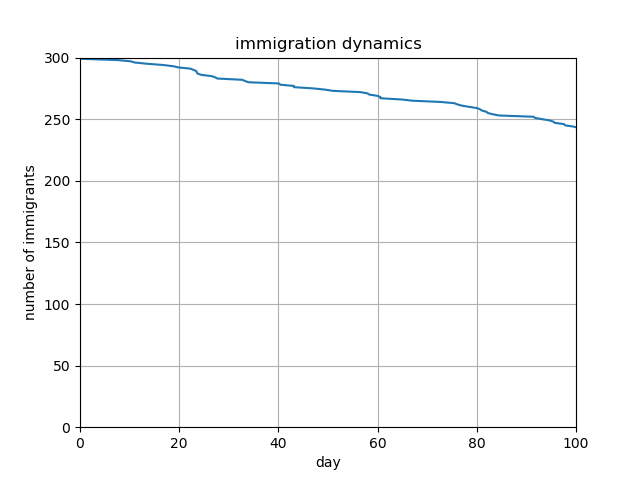
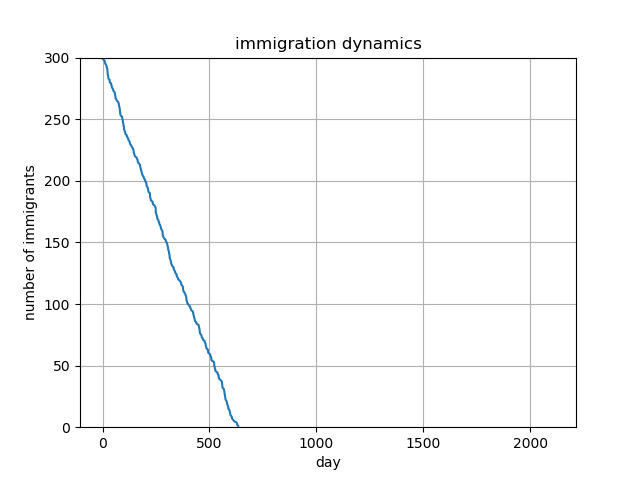
Save

diff --git a/src/model/continuous_time_model.py b/src/model/continuous_time_model.py
@@ -16,12 +16,9 @@ class ContinuousTimeModel(Model):
     BLEACH_GENERATOR_SEED = 800993
 
     PROBABILITY_TO_SAMPLE_INFECTED = 0.1
-    SCREENING_RATE = 1.0 / 36500
+    SCREENING_RATE = 14.97 / 365 / 100
     SHARING_RATE = 1.21
     BLEACH_RATE = 0.14
-    SCREENING_SCALE = 1.0 / SCREENING_RATE
-    SHARING_RATE = 1.0 / SHARING_RATE
-    BLEACH_SCALE = 1.0 / BLEACH_RATE
     NUMBER_OF_DELTAS = 1000000
 
     def __init__(self, number_of_days: int, population_size: int, number_of_syringes: int):
@@ -29,12 +26,8 @@ class ContinuousTimeModel(Model):
         self.__population_size = population_size
         self.__number_of_infected_users, self.__number_of_clean_users = self._divide_population(population_size)
         self.__number_of_infected_syringes, self.__number_of_clean_syringes = 0, number_of_syringes
-        screening_times = ContinuousTimeModel._generate_times(ContinuousTimeModel.SCREENING_GENERATOR_SEED, ContinuousTimeModel.SCREENING_SCALE, ContinuousTimeModel.NUMBER_OF_DELTAS, 0)
-        sharing_times = ContinuousTimeModel._generate_times(ContinuousTimeModel.SHARING_GENERATOR_SEED, ContinuousTimeModel.SHARING_RATE, ContinuousTimeModel.NUMBER_OF_DELTAS, 1)
-        bleach_times = ContinuousTimeModel._generate_times(ContinuousTimeModel.BLEACH_GENERATOR_SEED, ContinuousTimeModel.BLEACH_SCALE, ContinuousTimeModel.NUMBER_OF_DELTAS, 2)
-        times_list = [screening_times, sharing_times, bleach_times]
-        self.__timeline = ContinuousTimeModel._times_to_timeline(times_list)
-
+        self.__screening_generator = Random(ContinuousTimeModel.SCREENING_GENERATOR_SEED)
+        self.__sharing_generator = Random(ContinuousTimeModel.SHARING_GENERATOR_SEED)
 
     @staticmethod
     def _divide_population(population_size) -> Tuple[int, int]:
@@ -48,38 +41,15 @@ class ContinuousTimeModel(Model):
                 number_of_clean += 1
         return number_of_infected, number_of_clean
 
-    @staticmethod
-    def _generate_times(seed, scale, number_of_deltas, index):
-        numpy.random.seed(seed)
-        deltas = numpy.random.exponential(scale, number_of_deltas)
-        return ContinuousTimeModel._deltas_to_times(deltas, index)
-
-    @staticmethod
-    def _times_to_timeline(times_list):
-        all_times = []
-        for times in times_list:
-            all_times += times
-        return sorted(all_times, key=lambda time: time[1])
-
-    @staticmethod
-    def _deltas_to_times(deltas, index):
-        time = 0
-        times = []
-        for delta in deltas:
-            time += delta
-            times += ((index, time))
-        return times
-
-
-
     def run(self) -> Tuple[List[float], List[float], List[float]]:
-        size = len(self.__timeline)
+        timeline = [0]
+        size = len(timeline)
         number_of_infected_users = []
         number_of_clean_users = []
         for i in range(size):
             number_of_infected_users.append(50)
             number_of_clean_users.append(50)
-        return self.__timeline, number_of_infected_users, number_of_clean_users
+        return timeline, number_of_infected_users, number_of_clean_users
 
     def get_name(self) -> str:
         return self._NAME
